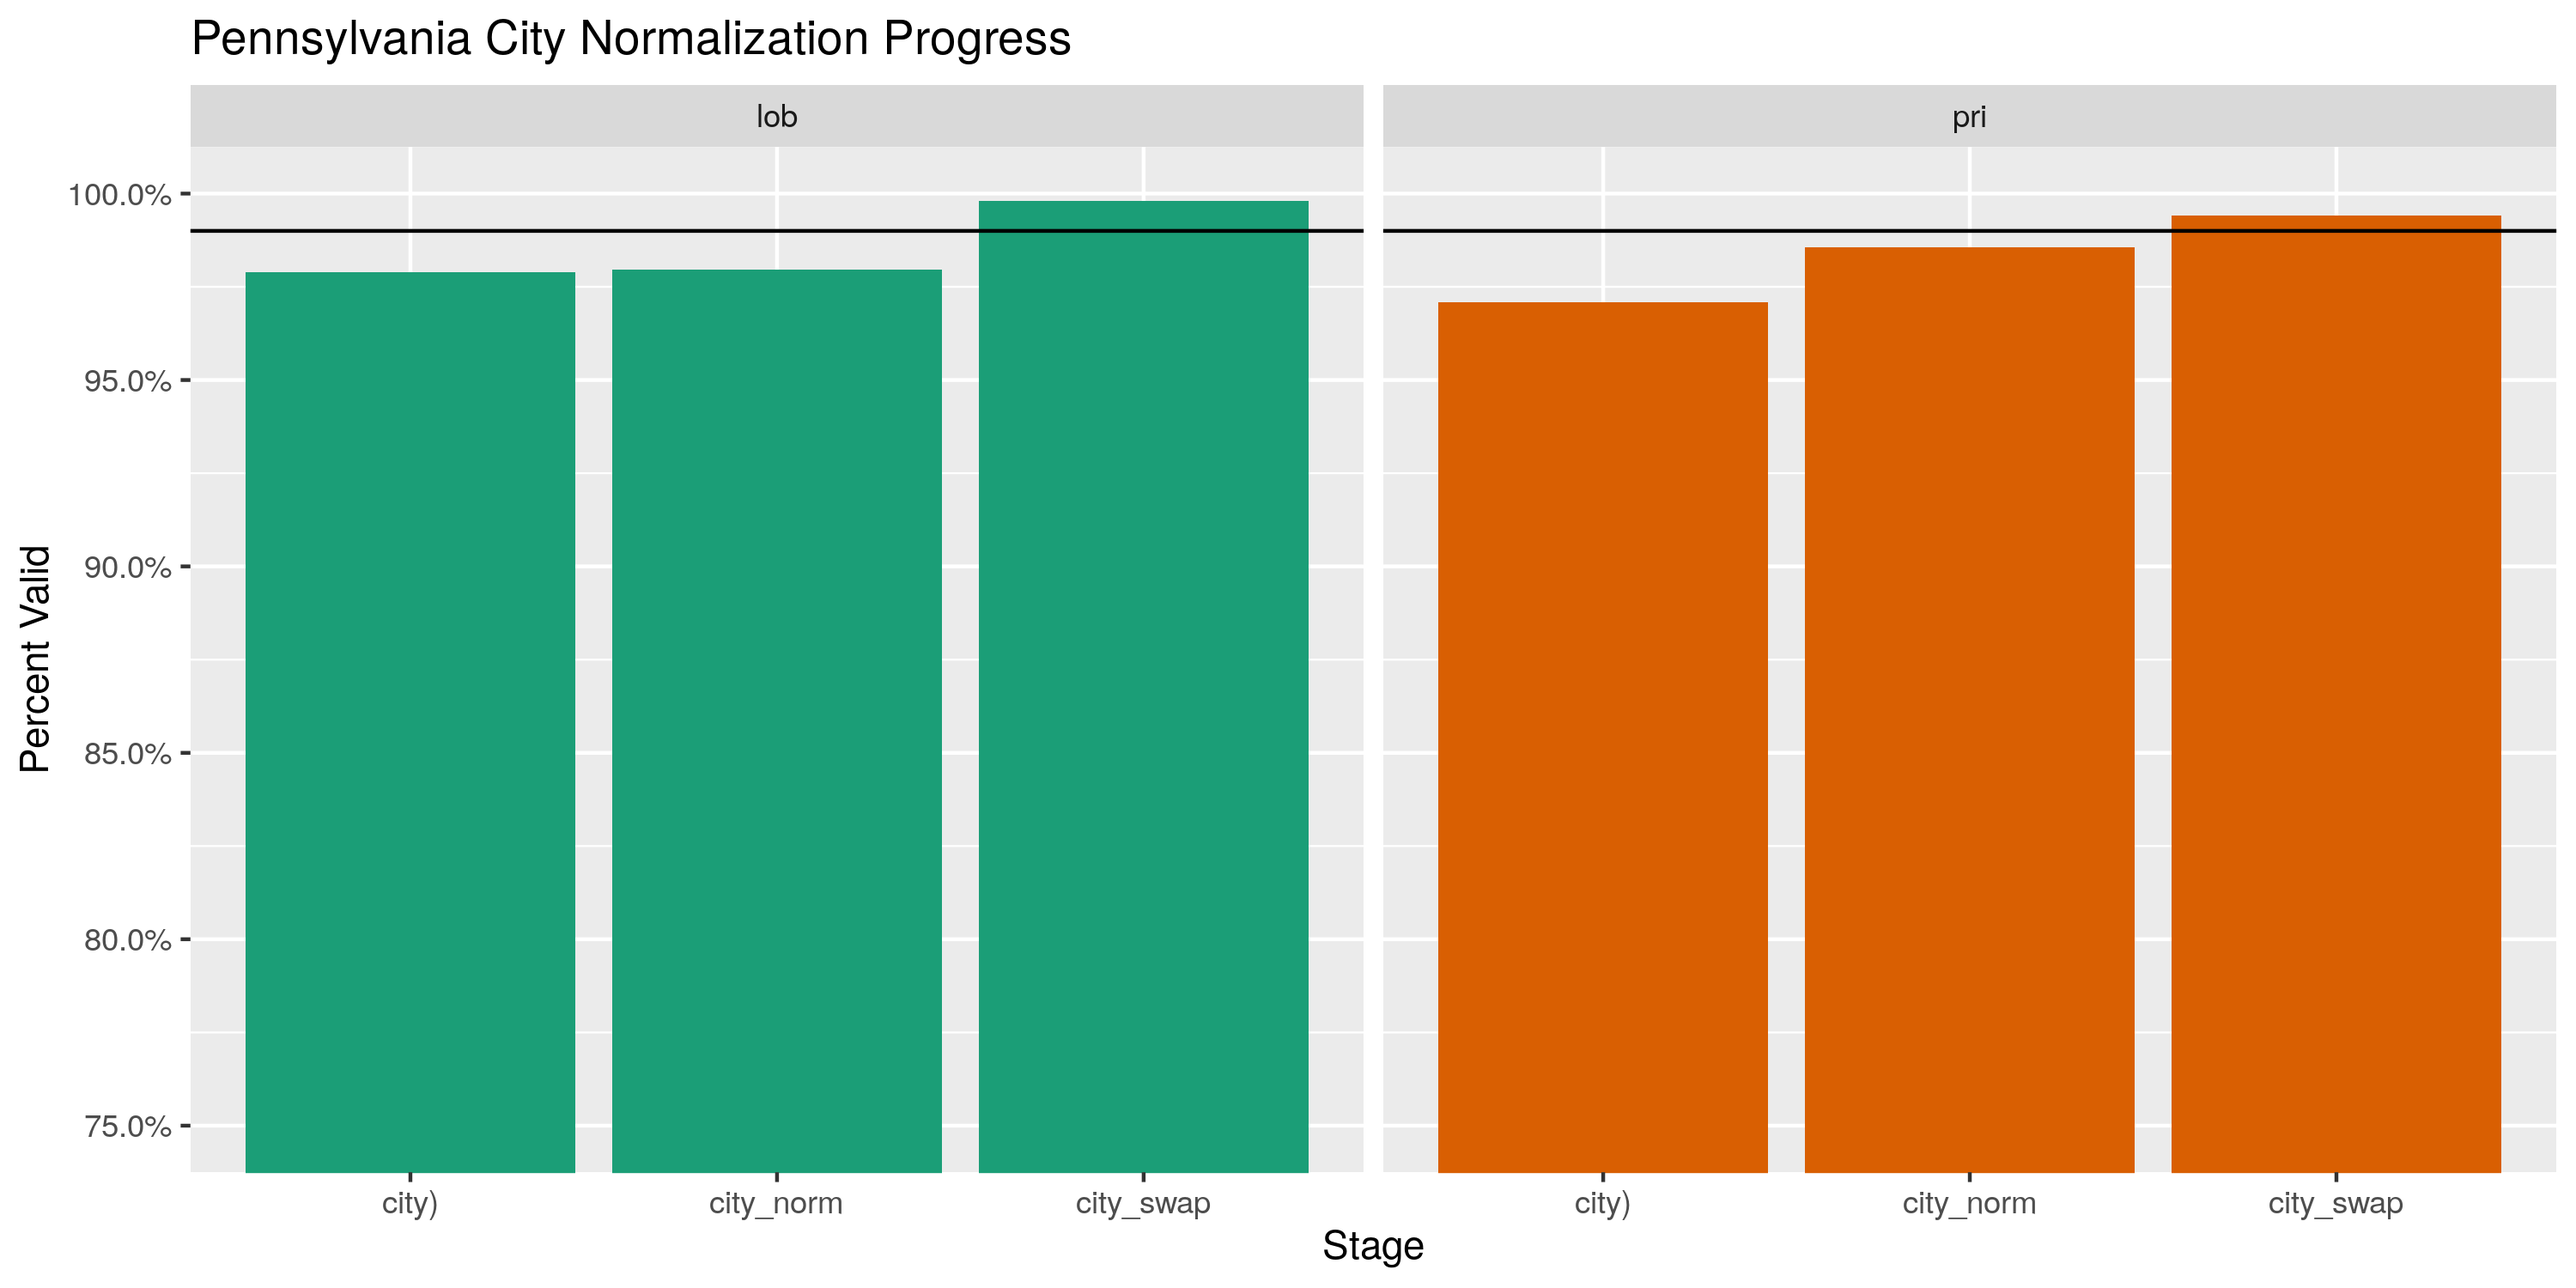
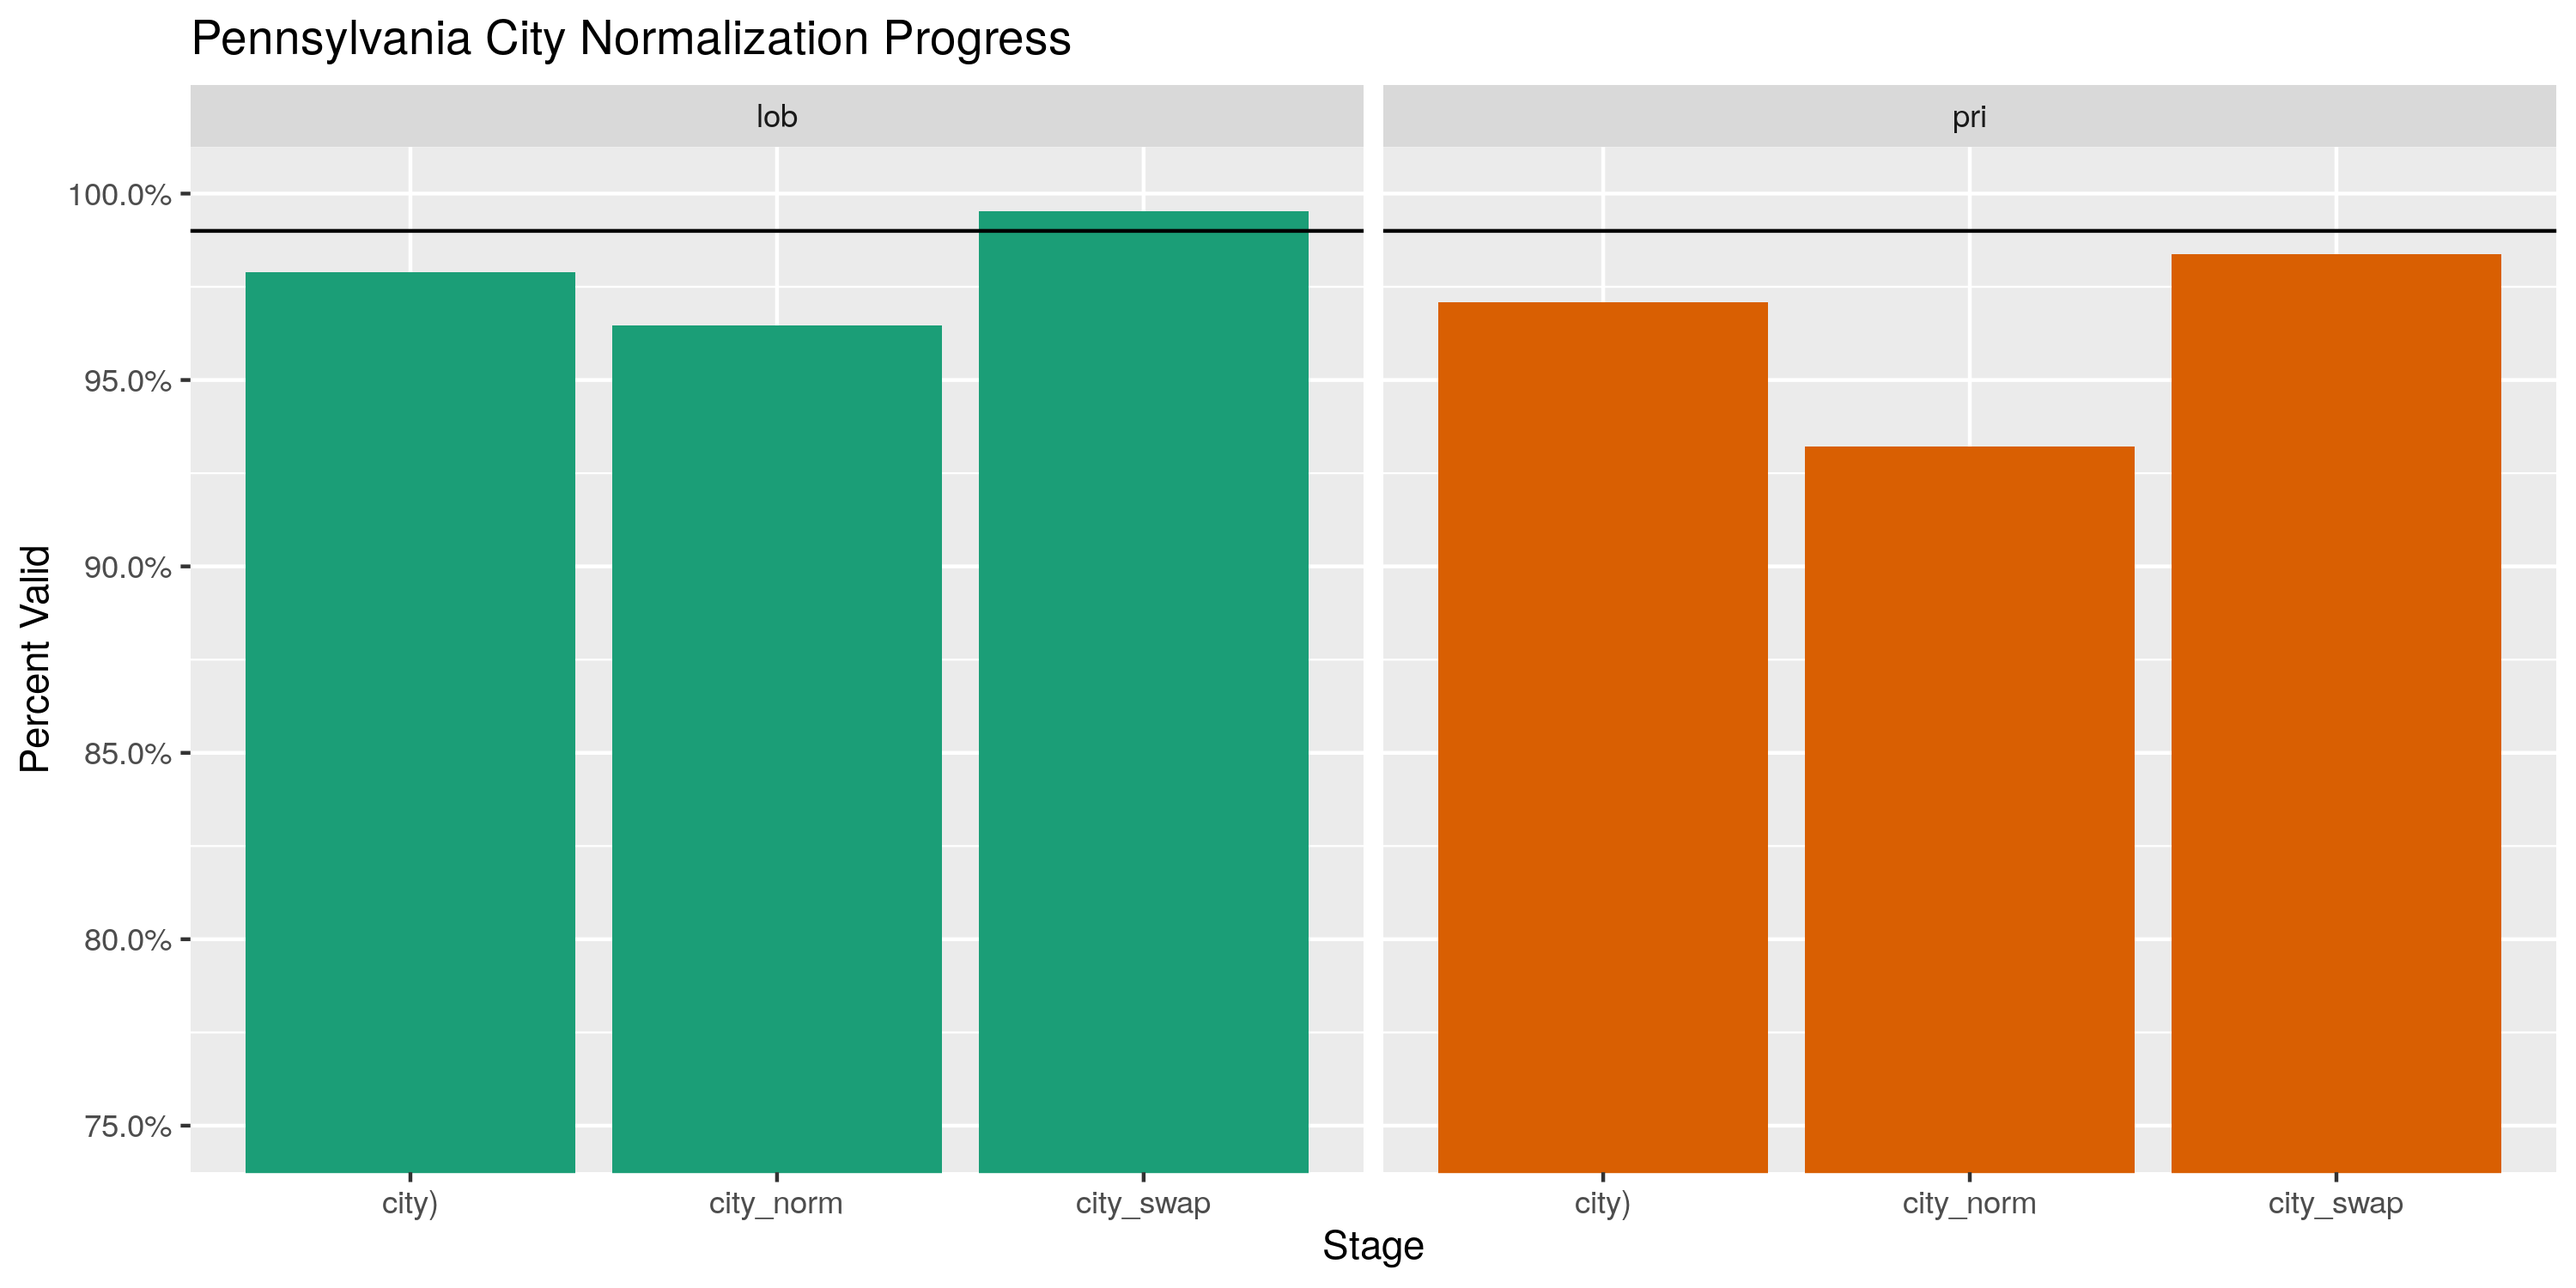
Fix PA lobbyist export

Changed region(s): [[0.682, 0.1533, 0.992, 0.368], [0.217, 0.184, 0.372, 0.276], [0.372, 0.1533, 0.527, 0.184]]

diff --git a/R_campfin/pa/lobby/docs/pa_lobby_diary.md b/R_campfin/pa/lobby/docs/pa_lobby_diary.md
@@ -1,7 +1,7 @@
 Pennsylvania Lobbyists
 ================
 Kiernan Nicholls
-2019-12-12 14:15:13
+2020-01-21 16:39:07
 
   - [Project](#project)
   - [Objectives](#objectives)
@@ -512,18 +512,18 @@ palr <- palr %>%
 ```
 
     #> # A tibble: 13,017 x 6
-    #>    lob_phone    lob_phone_ext pri_phone    pri_phone_extn lob_phone_norm pri_phone_norm
-    #>    <chr>        <chr>         <chr>        <chr>          <chr>          <chr>         
-    #>  1 717-486-3696 <NA>          502-719-8761 <NA>           (717) 486-3696 (502) 719-8761
-    #>  2 724-859-5325 <NA>          <NA>         <NA>           (724) 859-5325 ""            
-    #>  3 717-234-4441 <NA>          267-979-6583 <NA>           (717) 234-4441 (267) 979-6583
-    #>  4 412-562-1243 <NA>          856-231-1000 <NA>           (412) 562-1243 (856) 231-1000
-    #>  5 <NA>         <NA>          717-584-6025 <NA>           ""             (717) 584-6025
-    #>  6 412-562-1559 <NA>          412-255-6611 <NA>           (412) 562-1559 (412) 255-6611
-    #>  7 717-635-2320 <NA>          717-653-8009 <NA>           (717) 635-2320 (717) 653-8009
-    #>  8 215-735-6660 <NA>          215-895-6038 <NA>           (215) 735-6660 (215) 895-6038
-    #>  9 412-553-5700 <NA>          717-720-5300 <NA>           (412) 553-5700 (717) 720-5300
-    #> 10 717-236-0443 <NA>          717-467-4186 <NA>           (717) 236-0443 (717) 467-4186
+    #>    lob_phone    lob_phone_ext pri_phone    pri_phone_extn lob_phone_norm   pri_phone_norm  
+    #>    <chr>        <chr>         <chr>        <chr>          <chr>            <chr>           
+    #>  1 717-486-3696 <NA>          502-719-8761 <NA>           "(717) 486-3696" "(502) 719-8761"
+    #>  2 724-859-5325 <NA>          <NA>         <NA>           "(724) 859-5325" ""              
+    #>  3 717-234-4441 <NA>          267-979-6583 <NA>           "(717) 234-4441" "(267) 979-6583"
+    #>  4 412-562-1243 <NA>          856-231-1000 <NA>           "(412) 562-1243" "(856) 231-1000"
+    #>  5 <NA>         <NA>          717-584-6025 <NA>           ""               "(717) 584-6025"
+    #>  6 412-562-1559 <NA>          412-255-6611 <NA>           "(412) 562-1559" "(412) 255-6611"
+    #>  7 717-635-2320 <NA>          717-653-8009 <NA>           "(717) 635-2320" "(717) 653-8009"
+    #>  8 215-735-6660 <NA>          215-895-6038 <NA>           "(215) 735-6660" "(215) 895-6038"
+    #>  9 412-553-5700 <NA>          717-720-5300 <NA>           "(412) 553-5700" "(717) 720-5300"
+    #> 10 717-236-0443 <NA>          717-467-4186 <NA>           "(717) 236-0443" "(717) 467-4186"
     #> # … with 13,007 more rows
 
 ### Address
@@ -558,18 +558,18 @@ palr <- palr %>%
 ```
 
     #> # A tibble: 2,592 x 3
-    #>    lob_line1                 lob_line2                lob_addr_norm                                
-    #>    <chr>                     <chr>                    <chr>                                        
-    #>  1 200 NORTH THIRD STREET    Suite 1500               200 NORTH THIRD STREET SUITE 1500            
-    #>  2 EQT Plaza, Suite 1700     625 Liberty Avenue       EQT PLAZA SUITE 1700 625 LIBERTY AVENUE      
-    #>  3 Macquarie Capital (USA) … 1345 Avenue of the Amer… MACQUARIE CAPITAL USA INC 1345 AVENUE OF THE…
-    #>  4 1332 Penn St              <NA>                     1332 PENN STREET                             
-    #>  5 208 N. 3rd Street         Suite 202                208 NORTH 3RD STREET SUITE 202               
-    #>  6 1140 Connecticut Avenue,… Suite 510                1140 CONNECTICUT AVENUE NORTHWEST SUITE 510  
-    #>  7 1717 Arch Street          Suite 1310               1717 ARCH STREET SUITE 1310                  
-    #>  8 1475 Phoenixville Pike    <NA>                     1475 PHOENIXVILLE PIKE                       
-    #>  9 P O BOX 25                <NA>                     PO BOX 25                                    
-    #> 10 4750 Lindle Road          <NA>                     4750 LINDLE ROAD                             
+    #>    lob_line1                  lob_line2                lob_addr_norm                               
+    #>    <chr>                      <chr>                    <chr>                                       
+    #>  1 200 NORTH THIRD STREET     Suite 1500               200 N THIRD ST STE 1500                     
+    #>  2 EQT Plaza, Suite 1700      625 Liberty Avenue       EQT PLZ STE 1700 625 LIBERTY AVE            
+    #>  3 Macquarie Capital (USA) I… 1345 Avenue of the Amer… MACQUARIE CAPITAL USA INC 1345 AVE OF THE A…
+    #>  4 1332 Penn St               <NA>                     1332 PENN ST                                
+    #>  5 208 N. 3rd Street          Suite 202                208 N 3RD ST STE 202                        
+    #>  6 1140 Connecticut Avenue, … Suite 510                1140 CONNECTICUT AVE NW STE 510             
+    #>  7 1717 Arch Street           Suite 1310               1717 ARCH ST STE 1310                       
+    #>  8 1475 Phoenixville Pike     <NA>                     1475 PHOENIXVILLE PIKE                      
+    #>  9 P O BOX 25                 <NA>                     PO BOX 25                                   
+    #> 10 4750 Lindle Road           <NA>                     4750 LINDLE RD                              
     #> # … with 2,582 more rows
 
 ### ZIP
@@ -591,7 +591,7 @@ This improves the proportion of ZIP codes that are valid.
     #>   stage        prop_in n_distinct prop_na n_out n_diff
     #>   <chr>          <dbl>      <dbl>   <dbl> <dbl>  <dbl>
     #> 1 lob_zip        0.968        840  0        894    192
-    #> 2 lob_zip_norm   1.000        686  0          9      5
+    #> 2 lob_zip_norm   1.00         686  0          9      5
     #> 3 pri_zip        0.886       1791  0.0570  3043    508
     #> 4 pri_zip_norm   0.998       1370  0.0577    42     20
 
@@ -675,7 +675,7 @@ These two steps *drastically* improve the consistency in city names.
 ## Export
 
 ``` r
-proc_dir <- here("pa", "lobby", "data", "raw")
+proc_dir <- here("pa", "lobby", "data", "processed")
 dir_create(proc_dir)
 write_csv(
   x = palr,
